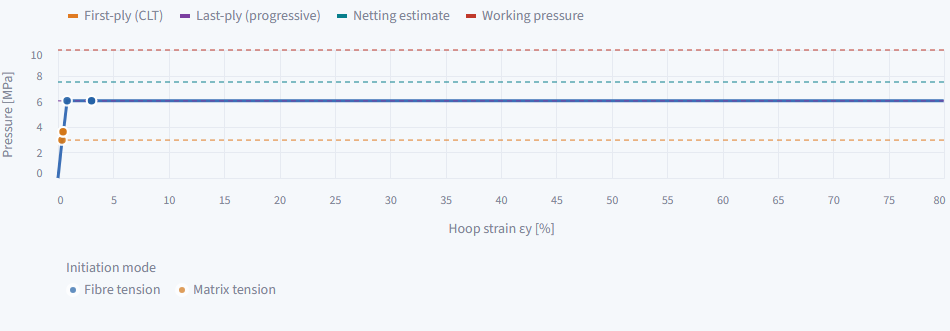
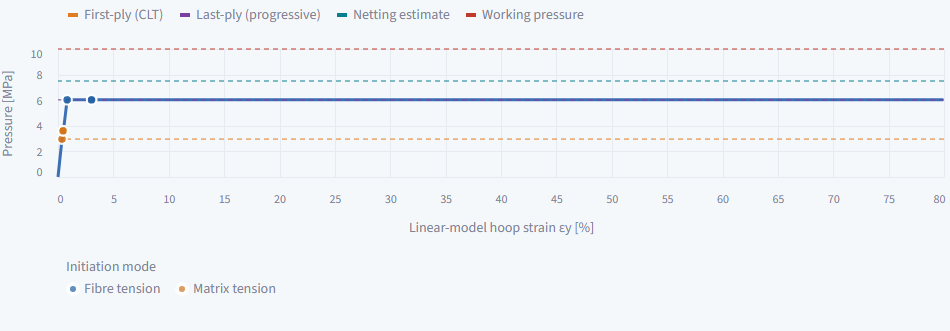
Correct professor-facing interpretations and prepare demonstration guides
Use calculated teaching endpoints for edited cards; separate mechanical and thermal no-load statements; qualify unbalanced netting and linear-model large strain; include actual PDF material inputs. Add a five-minute demonstration route and limitations memo. Preserve mechanics/data/snapshot. 163 tests pass with no skips; one-page PDF render checked.

diff --git a/app.py b/app.py
@@ -296,16 +296,16 @@ if stiffness is not None:
 
     verdict_i, verdict_factor, verdict_criterion = first_ply_limit(response.ply_surfaces, surface_strengths)
     if math.isinf(verdict_factor):
-        st.info("**Result in plain words:** no load is applied, so nothing is stressed. Choose a load preset in the sidebar.")
+        st.info("**Mechanical summary:** no sidebar mechanical load is applied. Thermal residual stress is assessed separately in Failure.")
     else:
         vp = response.ply_surfaces[verdict_i]
         where = f"Ply {vp.ply} ({vp.angle_deg:g}°, {vp.surface.lower()} face)"
         if verdict_factor >= 1:
-            st.success(f"**Result in plain words:** below the screening limit. You could multiply the loads by about "
-                       f"**{verdict_factor:.2f}** before the first ply reaches its limit: {where}, according to the {verdict_criterion} criterion.")
+            st.success(f"**Mechanical summary:** at or below the screening limit for the sidebar loads. The calculated initiation boundary is at about "
+                       f"**{verdict_factor:.2f}×** these loads: {where}, according to the {verdict_criterion} criterion.")
         else:
-            st.error(f"**Result in plain words:** already beyond the screening limit. At these loads {where} exceeds it according to the "
-                     f"{verdict_criterion} criterion; the loads must be reduced to **{verdict_factor:.2f}×** the entered values to stay below it.")
+            st.error(f"**Mechanical summary:** already beyond the screening limit for the sidebar loads. At these loads {where} exceeds it according to the "
+                     f"{verdict_criterion} criterion; **{verdict_factor:.2f}×** the entered values reaches the calculated initiation boundary. Lower factors lie below it.")
 
     if build_pdf_report is not None:
         report_bytes = build_pdf_report(
@@ -332,17 +332,19 @@ with tabs[0]:
     st.write("The 1-axis follows the fibres. Before opening the detailed results, predict what happens when all four plies rotate away from a fixed x-direction tensile load.")
     prediction = st.radio("From 0° to 90°, will x-direction extensional stiffness A₁₁…",
                           ["Increase", "Decrease", "Stay the same"], index=None, horizontal=True)
-    if st.button("Check my prediction"):
-        if prediction is None:
-            st.info("Choose a prediction first.")
-        elif prediction == "Decrease":
-            st.success("Correct. At 90°, the weaker transverse ply direction carries the x-load.")
-        else:
-            st.warning("Try the angle slider: x-aligned fibres resist x-tension much more strongly than transverse fibres for these materials.")
-    study_angle = st.slider("Rotate every ply [deg]", 0, 90, 0, 5, key="study_angle")
     study_load = np.array([100e3, 0, 0, 0, 0, 0], dtype=float)
     study = [assess_design(f"{a}°", f"[{a},{a}]s", ply_thickness_m, material, strengths, study_load)
              for a in range(0, 91, 10)]
+    endpoint_trend = ("Stay the same" if math.isclose(study[0].A11, study[-1].A11, rel_tol=1e-9)
+                      else "Increase" if study[-1].A11 > study[0].A11 else "Decrease")
+    if st.button("Check my prediction"):
+        if prediction is None:
+            st.info("Choose a prediction first.")
+        elif prediction == endpoint_trend:
+            st.success(f"Correct for the current material inputs: A₁₁ will {endpoint_trend.lower()} between the 0° and 90° endpoints.")
+        else:
+            st.warning(f"For the current material inputs, the endpoint answer is: {endpoint_trend}. Inspect the curve; intermediate angles need not vary monotonically.")
+    study_angle = st.slider("Rotate every ply [deg]", 0, 90, 0, 5, key="study_angle")
     current_study = assess_design(f"{study_angle}°", f"[{study_angle},{study_angle}]s",
                                   ply_thickness_m, material, strengths, study_load)
     st.caption("Controlled comparison: four plies of equal thickness, the selected material, and fixed Nx = 100 kN/m. Sidebar loads do not change this teaching experiment.")
@@ -366,8 +368,7 @@ with tabs[0]:
                  alt.Tooltip("ex_microstrain:Q", title="εx⁰ [µε]", format=".0f")]
     ).properties(height=270), width="stretch")
     st.markdown("**Trace the cause:** fibre direction → Q̄ of each ply → laminate A → compliance a = A⁻¹ → εx = a₁₁·Nx. "
-                "In the off-axis stacks [θ,θ]s every ply has the same +θ, so the laminate also shears under Nx (A₁₆ ≠ 0) "
-                "and εx grows faster than 1/A₁₁ alone suggests.")
+                "Off-axis stacks can couple extension and shear through A₁₆/A₂₆. The strain depends on the full compliance matrix, not on 1/A₁₁ alone.")
 
 with tabs[1]:
     st.subheader("Material → reduced stiffness Q")
@@ -377,7 +378,7 @@ with tabs[1]:
         st.markdown(f"**Source for elastic and strength inputs:** [{selected.reference}]({selected.source_url})")
         st.caption(selected.reference_note)
     else:
-        st.warning("Custom values have no recorded source. Cite your data before making engineering claims from them.")
+        st.warning("Custom values are UNSOURCED. Cite your data before making engineering claims from them.")
     nu21 = v12 * material["E2"] / material["E1"]
     q = compute_Q_matrix(material["E1"], material["E2"], material["G12"], material["v12"])
     st.metric("Minor Poisson ratio ν₂₁", f"{nu21:.5f}")
@@ -388,7 +389,7 @@ with tabs[1]:
         st.latex(r"\nu_{21}=\nu_{12}E_2/E_1,\qquad \Delta=1-\nu_{12}\nu_{21}")
         st.latex(r"Q_{11}=E_1/\Delta,\quad Q_{22}=E_2/\Delta,\quad Q_{12}=\nu_{12}E_2/\Delta,\quad Q_{66}=G_{12}")
         st.write("Q links local plane stress [σ₁, σ₂, τ₁₂] to local strain [ε₁, ε₂, γ₁₂]. γ₁₂ is engineering shear strain.")
-    st.write("Prediction: raising E₁ increases Q₁₁ most strongly. It does not automatically increase bending stiffness equally for every layup because ply position also matters.")
+    st.write("Q follows the entered elastic properties and the plane-stress denominator Δ. Inspect the calculated matrix when changing a value; bending stiffness also depends on ply orientation and position.")
 
 with tabs[2]:
     st.subheader("Orientation and laminate builder")
@@ -402,7 +403,7 @@ with tabs[2]:
     orientation = pd.DataFrame([{"Angle": f"{a}°", "Q̄11 [GPa]": transform_Q(q, a)[0, 0] / 1e9,
                                  "Q̄22 [GPa]": transform_Q(q, a)[1, 1] / 1e9} for a in (0, 45, 90)])
     st.dataframe(orientation, width="stretch", hide_index=True, column_config=fmt(orientation, "%.2f"))
-    st.write("Prediction: Q̄₁₁ falls as fibres rotate from 0° toward 90° for these reference materials.")
+    st.write("Compare Q̄₁₁ at 0°, 45° and 90° for the current properties. Edited elastic or shear properties can reverse the endpoint trend or produce a nonmonotonic curve.")
     st.markdown("**Ready-made layups** (they set every ply to the sidebar material)")
     preset_cols = st.columns(len(LAYUP_PRESETS))
     for column, (label, text) in zip(preset_cols, LAYUP_PRESETS.items()):
@@ -455,7 +456,7 @@ with tabs[2]:
         st.altair_chart(stack_plot(stiffness.z, st.session_state.plies, MATERIAL_NAMES), width="stretch")
     with st.expander("In plain words: what do these numbers mean?"):
         st.markdown("- **Q** describes one ply with the fibres along its own 1-axis. **Q̄** is the same ply seen from the laminate's x-axis after rotating it by its angle.\n"
-                    "- At 0° the ply is stiff along x; at 90° it is soft along x and stiff along y. At ±45° it resists shear well.\n"
+                    "- At 0° direction 1 aligns with x; at 90° it aligns with y. Which is stiffer follows the entered properties; ±45° plies transform normal and shear response together.\n"
                     "- Off-axis plies get non-zero Q̄₁₆/Q̄₂₆: pulling the ply also shears it. A **balanced** stack (each +θ matched by −θ) cancels this in A; "
                     "a **symmetric** stack makes B = 0. Bend–twist terms D₁₆/D₂₆ usually remain.")
 
@@ -509,7 +510,7 @@ with tabs[3]:
             st.write("D₁₆ and D₂₆ ≈ 0: no bend–twist coupling.")
         else:
             st.write(f"D₁₆/D₂₆ are nonzero (D₁₆/D₁₁ = {stiffness.D[0, 2] / stiffness.D[0, 0]:.3f}): bending also produces some twist. "
-                     "Balanced symmetric stacks with ±θ plies keep this term; \"quasi-isotropic\" describes A only, not D.")
+                     "Balance and symmetry alone do not force this term to zero; \"quasi-isotropic\" describes A only, not D.")
         with st.expander("In plain words: A, B and D"):
             st.markdown("- **A** is in-plane stiffness: how much force per unit width gives how much stretch. Bigger A₁₁ = stiffer along x.\n"
                         "- **B** couples stretching and bending. For a symmetric stack B = 0, so pulling does not bend the plate.\n"
@@ -615,6 +616,8 @@ with tabs[5]:
             st.markdown("**Thermal preload: cure cooling and cryogenic temperature**")
             st.caption("What this means: residual stress remains because bonded plies cannot expand independently. "
                        "Model assumption: one common stress-free temperature and constant properties, including at cryogenic inputs.")
+            if values_edited:
+                st.caption("Elastic and strength edits do not change the selected dataset's cited CTEs or reference-temperature provenance. This edited combination is not a calibrated material card.")
             active_materials = sorted({ply["mat"] for ply in st.session_state.plies})
             thermal_ready = all(thermal_records[index] is not None for index in active_materials)
             if not thermal_ready:
@@ -719,10 +722,13 @@ with tabs[5]:
                     st.dataframe(thermal_stress_frame, hide_index=True, width="stretch",
                                  height=table_height(len(thermal_stress_frame)),
                                  column_config=fmt(thermal_stress_frame, "%.3f"))
-                    critical_thermal = residual.ply_surfaces[thermal_index]
+                    control_note = "No controlling mechanical initiation face: no proportional mechanical load is applied. "
+                    if math.isfinite(thermal_factor):
+                        critical_thermal = residual.ply_surfaces[thermal_index]
+                        control_note = f"Control: ply {critical_thermal.ply}, {critical_thermal.surface.lower()} face, {thermal_criterion}. "
                     st.caption(
                         f"The thermal-preload factor holds residual stress fixed and scales only the sidebar mechanical loads; "
-                        f"control: ply {critical_thermal.ply}, {critical_thermal.surface.lower()} face, {thermal_criterion}. "
+                        + control_note +
                         "Both cases apply one ΔT to every ply; reference-to-final cooling uses the user-assumed common stress-free temperature. "
                         "Listed individual references are provenance, not a calibrated hybrid cure state."
                     )
@@ -809,6 +815,7 @@ with tabs[7]:
                                                   value=16, step=4, key="vessel_plies"))
     working_mpa = vessel_cols[2].number_input("Working pressure [MPa]", min_value=0.0, value=10.0, step=1.0, key="vessel_working")
     radius_m = radius_mm * 1e-3
+    st.caption("Wall plies controls the ±θ study, optimiser and dome. The current-layup cylinder check uses the separate ply table; the sidebar mechanical summary does not assess working pressure.")
     if wall_plies % 4:
         st.error("Use a multiple of 4 plies, so the ±θ wall is balanced and symmetric.")
     else:
@@ -874,7 +881,9 @@ with tabs[7]:
         check_cols[0].metric("First-ply failure pressure [MPa]", f"{current.first_ply_pressure_pa / 1e6:.2f}",
                              help=f"Ply {current.first_ply_ply}, {current.first_ply_surface.lower()} face; {current.first_ply_criterion} criterion; mode: {current.first_ply_mode.lower()}.")
         check_cols[1].metric("Fibre-only netting reference [MPa]", f"{current.netting_pressure_pa / 1e6:.2f}",
-                             help="Exact netting solution: fibre stresses between 0 and Xt that satisfy both axial and hoop equilibrium.")
+                             help="Fibre stresses between 0 and Xt satisfy axial and hoop equilibrium only; shear equilibrium and strain compatibility are not enforced.")
+        if not is_balanced(st.session_state.plies):
+            st.warning("Unbalanced wall: the netting reference enforces axial and hoop equilibrium only. Shear equilibrium is not enforced, so this number does not establish a feasible fibre-only wall under Nx=pR/2, Ny=pR, Nxy=0.")
         if working_mpa > 0:
             check_cols[2].metric("Netting / working pressure", f"{current.netting_pressure_pa / 1e6 / working_mpa:.2f}")
         if current.netting_pressure_pa <= 0:
@@ -943,7 +952,7 @@ with tabs[7]:
             mark_frame = pd.DataFrame(marks, columns=["limit", "pressure", "color"])
             progressive_chart = alt.layer(
                 alt.Chart(curve).mark_line(color=PALETTE["response"], strokeWidth=3).encode(
-                    x=alt.X("strain:Q", title="Hoop strain εy [%]", scale=alt.Scale(domainMin=0)),
+                    x=alt.X("strain:Q", title="Linear-model hoop strain εy [%]", scale=alt.Scale(domainMin=0)),
                     y=alt.Y("pressure:Q", title="Pressure [MPa]", scale=alt.Scale(domainMin=0)),
                     tooltip=[alt.Tooltip("strain:Q", title="εy [%]", format=".3f"), alt.Tooltip("pressure:Q", title="p [MPa]", format=".2f")]),
                 alt.Chart(mark_frame).mark_rule(strokeDash=[5, 4]).encode(
@@ -953,6 +962,7 @@ with tabs[7]:
             ).resolve_scale(color="independent")
             progressive_chart = alt.layer(progressive_chart, failure_event_chart(event_frame)).resolve_scale(color="independent").properties(height=330)
             st.altair_chart(progressive_chart, width="stretch")
+            st.warning("This is a linear-model pressure–strain history, not a physical burst/deformation curve. Residual stiffness can generate very large strains outside small-strain CLT; those strains are model extrapolation, not validated deformation.")
             if build_pdf_report is not None:
                 vessel_pdf = build_pdf_report(
                     material_name=st.session_state.material_choice + (" (edited values)" if values_edited else ""),

diff --git a/report.py b/report.py
@@ -18,6 +18,7 @@ from reportlab.platypus import Paragraph, SimpleDocTemplate, Spacer, Table, Tabl
 
 from presentation import progressive_frames, validation_status
 from ui_theme import APP_VERSION, PALETTE, MODE_COLOURS
+from workflow import is_balanced
 
 FONT_DIR = Path(__file__).parent / "assets" / "fonts"
 APP_URL = "https://composite-laminate-tool.streamlit.app/"
@@ -97,7 +98,7 @@ def pressure_strain_drawing(progressive, font):
     for fraction in (0, .5, 1):
         drawing.add(String(x0+w*fraction, y0-12, f"{xmax*fraction:.3g}", fontName=font, fontSize=7, textAnchor="middle"))
         drawing.add(String(x0-6, y0+h*fraction, f"{ymax*fraction:.3g}", fontName=font, fontSize=7, textAnchor="end"))
-    drawing.add(String(x0+w/2, 8, "Hoop strain [%]", fontName=font, fontSize=8, textAnchor="middle"))
+    drawing.add(String(x0+w/2, 8, "Linear-model hoop strain [%]", fontName=font, fontSize=8, textAnchor="middle"))
     drawing.add(String(3, 150, "Pressure [MPa]", fontName=font, fontSize=8))
     for i, mode in enumerate(events.Mode.unique()):
         drawing.add(String(100+(i%2)*220, 175-(i//2)*12, mode,
@@ -133,6 +134,8 @@ def build_pdf_report(*, material_name, material, strengths, layup, material_name
     heading("Inputs and load cases")
     h = float(stiffness.z[-1]-stiffness.z[0])
     text(f"<b>Material:</b> {escape(material_name)}. {len(layup)} physical plies; thickness {h*1e3:.4g} mm.")
+    text("Sidebar elastic inputs: E1=" + f"{material['E1']/1e9:.6g}, E2={material['E2']/1e9:.6g}, G12={material['G12']/1e9:.6g} GPa; nu12={material['v12']:.6g}.", "small")
+    text("Sidebar strengths [MPa]: " + "; ".join(f"{name}={getattr(strengths,name)/1e6:.6g}" for name in ("Xt","Xc","Yt","Yc","S")) + ". Other ply materials use their named reference cards.", "small")
     # Run-length encoding keeps the full physical sequence readable at 40 and 100 plies.
     groups = []
     uniform = len({(p['t'], p['mat']) for p in layup}) == 1
@@ -176,8 +179,10 @@ def build_pdf_report(*, material_name, material, strengths, layup, material_name
                [f"{current.first_ply_pressure_pa/1e6:.4f}", f"{progressive.first_ply_load_factor/1e6:.4f}",
                 f"{progressive.last_ply_load_factor/1e6:.4f}", f"{current.netting_pressure_pa/1e6:.4f}"]], [45*mm]*4)
         text("First-ply marks calculated initiation. Last-ply is the assumed algorithm stop, <b>not an ultimate or burst load</b>. Netting is a separate fibre-only equilibrium reference.", "small")
+        if not is_balanced(layup):
+            text("Unbalanced wall: netting enforces axial/hoop equilibrium only, not shear equilibrium. It does not establish a feasible complete fibre-only pressure wall.", "small")
         story.append(pressure_strain_drawing(progressive, regular))
-        text("Points: initiation modes before stiffness reduction; jumps: redistribution at held pressure. This is not a stability analysis.", "small")
+        text("Points: initiation before stiffness reduction; jumps: redistribution at held pressure. Large strains are linear-model extrapolation outside small-strain CLT, not validated deformation. No stability analysis.", "small")
     heading("Limits and validation")
     text(validation_status(), "small")
     text("Model assumptions: plane stress, perfect bonding, thin-plate CLT; Tsai-Wu interaction F12 is assumed. " +

diff --git a/tests/test_refine_presentation.py b/tests/test_refine_presentation.py
@@ -12,11 +12,12 @@ from report import build_pdf_report, pressure_strain_drawing
 from workflow import parse_layup, screen_cylinder, first_ply_limit
 
 class PresentationTests(unittest.TestCase):
-    def analysis(self, count):
+    def analysis(self, count, unbalanced=False):
         record = next(iter(DEFAULT_MATERIALS.values()))
         mat = record.as_core_material()
         allow = StrengthAllowables(**record.as_strengths())
-        layup = parse_layup('[' + ','.join(['0','45','-45','90']*(count//4)) + ']', record.ply_thickness)
+        angles = ['54.735610317245346']*count if unbalanced else ['0','45','-45','90']*(count//4)
+        layup = parse_layup('[' + ','.join(angles) + ']', record.ply_thickness)
         stiffness = assemble_laminate_stiffness(layup, [mat])
         response = recover_ply_surfaces(stiffness, layup, [mat], [1e5,0,0,0,0,0])
         prog = progressive_failure(layup, [mat], [allow], cylinder_resultants(1,.1))
@@ -49,9 +50,9 @@ class PresentationTests(unittest.TestCase):
         self.assertIn('Not validated against experiment',validation_status())
 
     def test_pdf_one_page_and_cylinder_values_for_4_16_40_plies(self):
-        for count in (4,16,40):
-            with self.subTest(plies=count):
-                layup,mat,allow,stiffness,response,prog,screen = self.analysis(count)
+        for count, unbalanced in ((4,False),(16,False),(40,False),(4,True)):
+            with self.subTest(plies=count,unbalanced=unbalanced):
+                layup,mat,allow,stiffness,response,prog,screen = self.analysis(count,unbalanced)
                 allows = [allow]*len(response.ply_surfaces)
                 pdf = build_pdf_report(material_name='T300/5208',material=mat,strengths=allow,layup=layup,
                       material_names=['Sidebar material'],loads=[1e5,0,0,0,0,0],stiffness=stiffness,
@@ -62,6 +63,11 @@ class PresentationTests(unittest.TestCase):
                 for value in (screen.first_ply_pressure_pa,prog.first_ply_load_factor,prog.last_ply_load_factor,screen.netting_pressure_pa):
                     self.assertIn(f'{value/1e6:.4f}'.encode(),pdf)
                 self.assertIn(b'not an ultimate or burst load',pdf)
+                self.assertIn(b'E1=181',pdf)
+                self.assertIn(b'Xt=1500',pdf)
+                self.assertIn(b'linear-model extrapolation',pdf)
+                if unbalanced:
+                    self.assertIn(b'not shear equilibrium',pdf)
 
 if __name__ == '__main__':
     unittest.main()

diff --git a/tests/test_refine_grid.py b/tests/test_refine_grid.py
@@ -51,5 +51,28 @@ class RefineGridTests(unittest.TestCase):
         self.clean(app)
         self.assertTrue(any('UNSOURCED' in e.value for e in app.warning))
 
+    def test_prediction_follows_edited_material_endpoints(self):
+        app = AppTest.from_file(str(Path(__file__).resolve().parents[1]/'app.py'),default_timeout=120).run()
+        for e1,e2,answer in ((10.,20.,'Increase'),(10.,10.,'Stay the same'),(181.,10.3,'Decrease')):
+            with self.subTest(answer=answer):
+                app.number_input(key='material_e1').set_value(e1).run()
+                app.number_input(key='material_e2').set_value(e2).run()
+                app.radio[0].set_value(answer).run()
+                next(b for b in app.button if b.label=='Check my prediction').click().run()
+                self.clean(app)
+                self.assertTrue(any('Correct for the current material inputs' in s.value for s in app.success))
+
+    def test_zero_mechanical_load_and_unbalanced_netting_are_qualified(self):
+        app = AppTest.from_file(str(Path(__file__).resolve().parents[1]/'app.py'),default_timeout=120).run()
+        app.number_input(key='load_nx').set_value(0).run()
+        self.clean(app)
+        self.assertTrue(any('Thermal residual stress is assessed separately' in x.value for x in app.info))
+        self.assertTrue(any('No controlling mechanical initiation face' in x.value for x in app.caption))
+        app.session_state['plies'] = [{'theta':54.735610317245346,'t':.000125,'mat':0}]*4
+        app.run()
+        self.clean(app)
+        self.assertTrue(any('Shear equilibrium is not enforced' in x.value for x in app.warning))
+        self.assertTrue(any('outside small-strain CLT' in x.value for x in app.warning))
+
 if __name__ == '__main__':
     unittest.main()

diff --git a/presentation.py b/presentation.py
@@ -33,7 +33,7 @@ def progressive_frames(result):
 def failure_event_chart(events):
     modes = [mode for mode in MODE_COLOURS if mode in set(events["Mode"])]
     return alt.Chart(events).mark_point(filled=True, size=90, stroke="white").encode(
-        x=alt.X("strain:Q", title="Hoop strain εy [%]"),
+        x=alt.X("strain:Q", title="Linear-model hoop strain εy [%]"),
         y=alt.Y("pressure:Q", title="Pressure [MPa]"),
         color=alt.Color("Mode:N", scale=alt.Scale(domain=modes, range=[MODE_COLOURS[mode] for mode in modes]),
                         legend=alt.Legend(title="Initiation mode", orient="bottom", columns=2, labelLimit=250)),

diff --git a/LIMITS_BEFORE_SHOW.md b/LIMITS_BEFORE_SHOW.md
@@ -1,0 +1,22 @@
+# Памятка перед показом
+
+Технический статус приложения. Не заменяет самостоятельные задания A1-A4.
+
+| Что показывается | Что подтверждено | Граница вывода |
+|---|---|---|
+| Q, Q-bar, ABD, отклик | Формулы, единицы, предельные случаи и численный snapshot проверяются тестами | Линейная упругость, плоское напряжённое состояние, идеальное сцепление слоёв, малые деформации. Нет межслойных напряжений, расслоения или потери устойчивости. |
+| First-ply | Достижение выбранного критерия на грани слоя при заданном пути нагрузки | Начало расчётного повреждения; не разрушение всей конструкции. Фактор ровно на границе не означает «ниже границы». |
+| Last-ply | Точка остановки алгоритма с выбранными коэффициентами остаточной жёсткости | Не ultimate load и не экспериментальное burst pressure. Правило деградации — допущение. Большие деформации хвоста графика — экстраполяция линейной модели. |
+| Netting | Волоконный баланс осевой и окружной нагрузки; отдельно от CLT | Не учитывает матрицу, совместность деформаций или лайнер. Для несбалансированной укладки не обеспечивает условие нулевой сдвиговой нагрузки. Не является общей верхней границей для CLT. |
+| Термика | Преобразование CTE, баланс силы/момента и остаточные напряжения проверены | Общая stress-free температура — допущение; не автоматически температура отверждения. Редактирование упругих свойств не изменяет cited CTE. При криогенных входах свойства остаются постоянными. |
+| Купол | Идеальные геодезические траектории, утолщение и мембранные станции | Только спиральные слои; нет лайнера, боссов, проскальзывания или изгиба у краёв. Полярная сингулярность и переход к цилиндру не являются прогнозом прочности. |
+| Оптимизатор | Воспроизводимый поиск при фиксированных материале, числе и толщине слоёв | Симметричные количества углов и канонический порядок, а не все перестановки слоёв. Ограниченная выборка не доказывает глобальный оптимум или технологичность. |
+| Сравнение со статьями | Условные расчёты и чувствительность сохранены без подгонки | Сейчас нет пригодного like-for-like сравнения с burst-тестом. Геометрия/укладка не полностью подтверждены оригиналами; Type III лайнер не моделируется. |
+
+**Не моделируются:** усталость, проницаемость и утечки, ползучесть, влажность, повреждения от удара, дефекты изготовления, температурно-зависимые свойства, 3D FE и сертификационные допускаемые характеристики.
+
+**Перед показом:** свежая сессия; cited материал сброшен; нужный пресет нагрузки выбран; восемь слоёв текущей укладки не перепутаны с 16 слоями углового исследования; PDF открыт заранее; статус валидации остаётся видимым.
+
+**Если спрашивают про достоверность:** показывать `verification/qa_results.json`, `REVIEW_thermal_optimise.md` и benchmark, затем отдельно объяснять отсутствие экспериментальной валидации. Test pass означает прохождение конкретных проверок, а не доказательство безопасности сосуда.
+
+**Что остаётся:** R6 может уточнить только данные, явно показанные в оригинальных страницах статей. Без них радиус, порядок слоёв и свойства лайнера не заполняются догадками. A1-A5 остаются личной частью пользователя.

diff --git a/DEMO_ROUTE.md b/DEMO_ROUTE.md
@@ -1,0 +1,32 @@
+# Five-minute demonstration route
+
+Technical operating guide for the existing app. This is not the user's personal A2 explanation or a substitute for A1-A4.
+
+## Preparation
+
+Open a fresh app session. Select **Graphite/Epoxy (T300/5208)**, reset to cited values, select **Axial tension (Nx = 100 kN/m)**, and apply **Quasi-isotropic [0/45/-45/90]s**. Confirm eight plies, 0.125 mm per ply and 1.000 mm total thickness. Use R = 100 mm and the default degradation factors in Pressure vessel. For the demonstration, set working pressure to **1 MPa**, explicitly as an illustrative input, not a recommended operating pressure.
+
+The **16 wall plies** input controls the angle study, optimiser and dome, not the current eight-ply laminate. The green mechanical summary concerns sidebar loads, not working pressure. Keep these two load cases separate throughout.
+
+## Main route: five minutes
+
+| Time | Existing screen and action | Evidence to point to | Interpretation to establish |
+|---|---|---|---|
+| 0:00-0:30 | Top summary and validation banner | Cited teaching data; no like-for-like experimental comparison | This is an educational screening model. Numerical checks and experimental validation are separate. |
+| 0:30-1:15 | Material & Q, then Layup & Q-bar; move the one-ply preview slider from 0 to 90 degrees | Q is in fibre axes; Q-bar is in laminate axes | The preview slider does not edit the actual stack. The entered properties determine the stiffness trend. |
+| 1:15-2:00 | ABD, with the default eight-ply quasi-isotropic stack | A11 = A22 = 76.3682 MN/m; B approximately zero; D11 = 10.6907, D22 = 2.6533 N m | Symmetry removes extension-bending coupling. Quasi-isotropic membrane stiffness does not imply isotropic bending stiffness. |
+| 2:00-2:45 | Failure; point to the governing face and criterion | Mechanical load factor 2.76119; Tsai-Wu, ply 4 bottom face | The factor scales the six sidebar loads proportionally to initiation. Hashin has a separate mode result; initiation is not whole-laminate collapse. |
+| 2:45-4:15 | Pressure vessel: current-layup metrics, sequence and pressure-strain chart | Eight-ply cylinder: CLT/Hashin initiation 2.96314 MPa; model stop 6.02808 MPa; balanced netting reference 7.50000 MPa | These are three model outputs with different assumptions. The model stop is not burst pressure. The large calculated strain tail is linear-model extrapolation, not a physical deformation prediction. |
+| 4:15-5:00 | Verification; then download the cylinder PDF | [0/90]s benchmark A11 approximately 48.039 MN/m, D11 approximately 1.671 N m; recorded test suite; limits | The benchmark checks an implemented laminate calculation. It does not validate a tank against experiments. The PDF separates mechanical laminate and pressure cases. |
+
+Values above are calculated/reference-display values, not experimental measurements. Source: `tests/snapshot_v3.json`, the existing benchmark and current default material card. Display rounding explains small last-digit differences.
+
+## Optional extensions, only if asked
+
+- **Thermal, about one minute:** keep the default quasi-isotropic layup and sidebar load; choose Direct delta T = -100 C. Residual transverse stress magnitude is about 21.27 MPa; the mechanical first-ply factor with thermal preload is about 1.285. The thermal stress stays fixed while the mechanical load scales. This does not calculate temperature-dependent properties or manufacture/cure chemistry.
+- **Dome, about one minute:** defaults r0/R = 0.5, depth/R = 1 give cylinder winding angle 30 degrees. The model has 15 membrane-valid stations out of 41; the weakest valid station is about 4.32 MPa. Shaded edge stations are excluded from the headline. This dome uses the separate 16-ply helical wall, not the current eight-ply laminate.
+- **Optimiser, about one minute:** run the search before the meeting. Defaults evaluate 128 of 203,490 symmetric count vectors with seed 2026. The saved baseline top first-ply result is about 8.86 MPa, with model stop 20.10 MPa and fibre-only ideal 20.00 MPa. A sampled count search is not a global stacking-sequence or manufacturing optimum.
+
+## Stop rules for the demonstration
+
+Do not compare green mechanical status with working pressure; do not call model stop burst; do not interpret a large-strain tail as physical tank expansion; do not use axial/hoop netting as a complete solution for an unbalanced wall; do not describe a conditional paper case or an implied radius as validation. If a number is questioned, identify its inputs and model before giving an interpretation.

diff --git a/verification/PROFESSOR_PASS.md b/verification/PROFESSOR_PASS.md
@@ -1,0 +1,15 @@
+# Professor-facing pass - 7 October 2026
+
+Read-only review by the independent mechanics reviewer, verified and integrated by the parent. Numerical core and snapshot unchanged.
+
+1. **Confirmed:** zero sidebar load was described as no stress anywhere. Summary now qualifies mechanical loading and points to thermal residual stress separately; infinite thermal load factor has no fictitious controlling face.
+2. **Confirmed:** the exact proportional factor was called below the limit. It now means the initiation boundary; smaller factors lie below it.
+3. **Confirmed:** quiz always accepted Decrease. It now compares the existing 0/90 study results for the entered card; edited cases with E1<E2, E1=E2 and E1>E2 are exercised. No new mechanics calculation was introduced.
+4. **Confirmed:** universal stiffness-growth, monotonic-rotation and off-axis shear statements could be false under admissible edited inputs. Text now refers to entered properties, full compliance and possible coupling. Balance/symmetry alone does not force bend-twist terms either to vanish or to remain nonzero.
+5. **Confirmed:** default progressive curve reaches about 79.94% calculated hoop strain. UI/PDF explicitly label large strains as linear-model extrapolation beyond small-strain CLT. Arrays are preserved, not clipped or presented as physical deformation.
+6. **Confirmed:** current-layup netting omits shear equilibrium. For four +54.7356-degree plies the axial/hoop result is 3.333 MPa while positive fibre forces create a nonzero shear resultant. UI/PDF now explicitly qualify unbalanced walls; no new shear-equilibrium solver or changed pressure is introduced.
+7. **Confirmed:** PDF accepted elastic/strength inputs but omitted them. Actual sidebar E1/E2/G12/nu12 and Xt/Xc/Yt/Yc/S are now printed, with separate named cards for other ply materials.
+8. **Confirmed:** elastic/strength edits retain the selected CTE/reference provenance. Thermal block now discloses this combination is not a calibrated edited card.
+9. **Confirmed:** study-wall count, current-stack count and sidebar/pressure load cases can be confused. A caption separates all three scopes; DEMO_ROUTE.md specifies the demonstration state and LIMITS_BEFORE_SHOW.md records limitations.
+
+Synthetic edited cards used in regression tests are inputs for checking UI logic, not sourced engineering datasets. Demonstration numbers come from the existing v3 snapshot/benchmark. No new validation data, material, dependency, tab, mode or physics module.

diff --git a/STATE.md b/STATE.md
@@ -4,7 +4,7 @@
 - R0b/R1: independent thermal/optimiser numerical review and clarity inventory saved in verification/; no confirmed equation defect.
 - R2/R3: shared style, 15-term glossary, visible unscored-validation status, model limits, coloured initiation events and dome edge shading.
 - R4: existing one-page PDF export covers mechanical summary and cylinder pressures/curve; 4/16/40-ply page/number tests pass; Report No. 2 wording/wrapping corrected.
-- R5/G2: input boundary fixes and text dispositions recorded; 161 tests pass, 0 skipped; snapshot unchanged; all eleven tabs/presets load.
-- R7: pushed b21ae01; local and live browser checks clicked all eleven tabs and downloaded the PDF without exceptions; evidence in verification/*_browser_qa.json; stale package imports guarded.
+- R5/G2 + professor pass: input/text fixes, custom-card quiz, thermal/mechanical scope, unbalanced netting and large-strain qualifiers; current suite 163 passed, 0 skipped; snapshot unchanged.
+- R7: baseline live checked at b21ae01; follow-up route DEMO_ROUTE.md and limits memo LIMITS_BEFORE_SHOW.md ready; revised export prints actual material inputs; browser evidence refreshed after deployment.
 - Deferred: optional R6 awaits original pages (A5); personal A1-A5 remain user's work; no experimental burst validation, liner/boss, temperature-dependent properties or stability model.
 - After presentation: step-by-step navigation, failure animation, separate two-layup screen/report generator, new physics/tabs only after rescoping; isotensoid, fatigue, permeation, moisture, creep and 3D FE remain out of scope.

diff --git a/verification/AUDIT.md b/verification/AUDIT.md
@@ -30,6 +30,14 @@ Completion audit: all mandatory AI stages R0b, R1-R5, G2 and R7 have the file/te
 
 ## Earlier verified mechanics
 
+## Professor-facing follow-up
+
+`verification/PROFESSOR_PASS.md` records nine confirmed interpretation/input-reporting findings and their fixes. The operating route is `DEMO_ROUTE.md`; limitations are in `LIMITS_BEFORE_SHOW.md`. They are technical guides, not the user's personal A1-A5 deliverables. The quiz reuses the existing angle study and follows its 0/90 endpoints. Mechanical summary, thermal no-load face, edited-card provenance, unbalanced netting and large-strain extrapolation are qualified explicitly. The PDF now prints actual sidebar elastic and strength inputs.
+
+Current suite: 163 passed, zero skipped, including unchanged snapshot and the extended PDF page/value checks. Core, material/source records, validation numbers and dependencies remain unchanged. Visual QA confirmed the revised sample remains one page without clipping. Native browser/live evidence is refreshed for the follow-up deployment; previous v4 records above retain their historical counts.
+
+## Earlier benchmark details
+
 - `Q̄(0°) = Q`; the 30° glass/epoxy `Q̄` agrees with the closed-form transformation (`verification/benchmark.py`).
 - Ply interfaces run from `−h/2` to `+h/2`; stresses are recovered at both faces of every ply from `ε(z) = ε⁰ + zκ`.
 - Symmetric stacks give `B ≈ 0`; reversing a stack keeps `A` and `D` and flips the sign of `B`.

diff --git a/README.md b/README.md
@@ -64,7 +64,9 @@ No physics module, dependency, tab or navigation mode was added. `core/`, source
 
 ![Existing pressure-strain chart with initiation-event colours](assets/screenshots/v4_pressure_curve.png)
 
-Current recorded suite: **161 tests passed, 0 skipped** (`verification/qa_results.json`). Independent thermal/optimiser review: `verification/REVIEW_thermal_optimise.md`; text review: `verification/TEXT_REVIEW_G2.md`; input cases: `verification/ROBUSTNESS_R5.md`. The saved sample export is `output/pdf/V4_screening_sample.pdf`.
+Current recorded suite: **163 tests passed, 0 skipped** (`verification/qa_results.json`). Independent thermal/optimiser review: `verification/REVIEW_thermal_optimise.md`; text review: `verification/TEXT_REVIEW_G2.md`; input cases: `verification/ROBUSTNESS_R5.md`. The saved sample export is `output/pdf/V4_screening_sample.pdf`.
+
+For the professor-facing demonstration, use [the five-minute route](DEMO_ROUTE.md) and [the limitations memo](LIMITS_BEFORE_SHOW.md). The final reader review is in `verification/PROFESSOR_PASS.md`. The quiz follows the entered material, thermal/no-load wording is separated, and unbalanced netting and large-strain extrapolation are explicitly qualified. The PDF records the actual sidebar elastic and strength inputs.
 
 ## Data sources
 

diff --git a/ACCEPTANCE.md b/ACCEPTANCE.md
@@ -56,6 +56,7 @@ Unidirectional stack recovers E1/E2/G12/nu12; quasi-isotropic Ex=Ey and Gxy=Ex/(
 - R0 current verification (7 October 2026): 146/146 tests pass, 0 skipped with streamlit and reportlab installed. Audit: verification/AUDIT_R0.md.
 
 ## v4 refinement evidence
+Professor pass: current suite 163 passed, 0 skipped. Edited-card quiz endpoint answers, zero mechanical load with thermal stress, unbalanced netting qualification and PDF input/extrapolation statements are covered. Previous v4 counts below are historical baselines.
 - Current suite: 161 passed, 0 skipped; command and result in verification/qa_results.json and qa_test_log.txt.
 - AppTest grid renders all eleven existing tabs for every material dataset, load preset and layup preset; one ply, zero working pressure and missing custom CTE are exercised.
 - Direct thermal imports also render with a cached core package missing its new aggregate thermal exports (regression for the live ImportError scenario; live outcome requires deployment verification).
